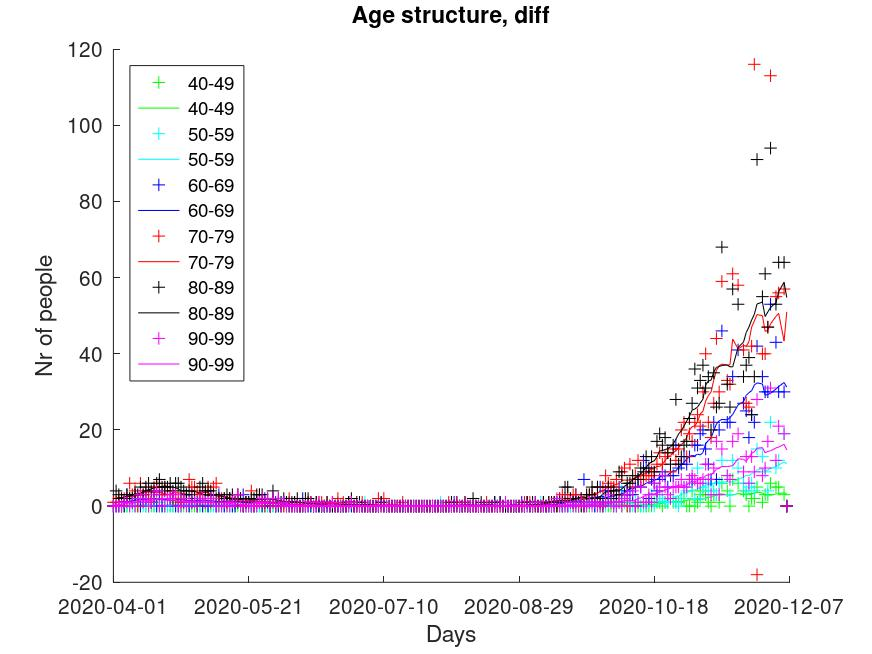
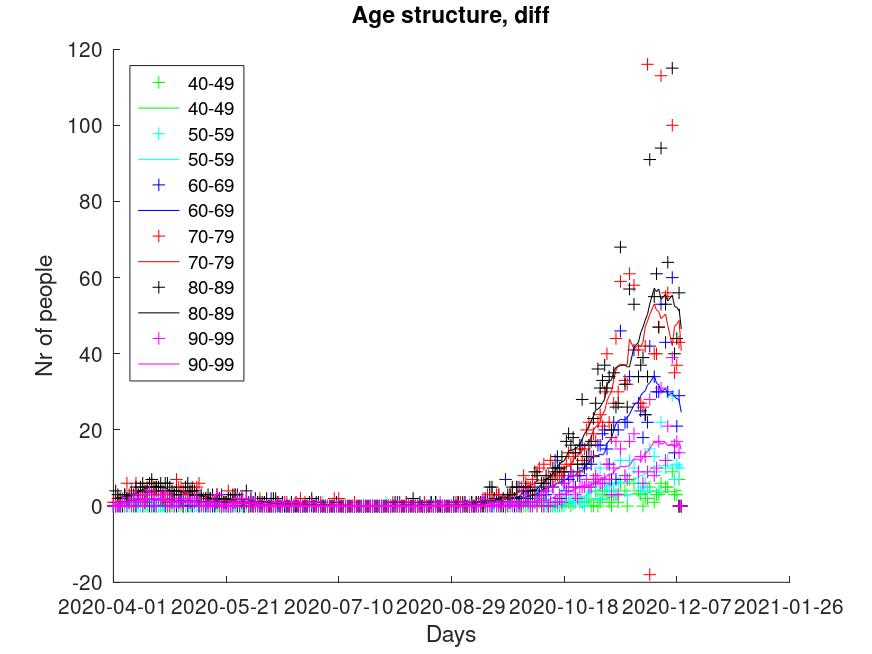
update 2020-12-09

diff --git a/index.html b/index.html
@@ -5,7 +5,7 @@ The aim of this project to help on you learing the Matlab script language quickl
 You can download octave (free) from : <a href=https://www.gnu.org/software/octave/download.html>https://www.gnu.org/software/octave/download.html</A>
 <BR>
 Input data come from this <a href=https://hu.wikipedia.org/wiki/2020-as_COVID%E2%80%9319-koronav%C3%ADrus-j%C3%A1rv%C3%A1ny_Magyarorsz%C3%A1gon>wikipedia link</a>,
-updated on 2020-11-30. <br>
+updated on 2020-12-09. <br>
 Day zero in curves is 2020-03-04 when the first 2 people tested positive to Covid19 in Budapest. <Br>
 <BR>
 Other curves:

diff --git a/README.md b/README.md
@@ -4,7 +4,7 @@ Matlab / Octave example project using Hungarian Covid19 raw datas
 The aim of this project to help on you learing the Matlab script language quickly.
 
 Input data come from this [wikipedia link](https://hu.wikipedia.org/wiki/2020-as_COVID%E2%80%9319-koronav%C3%ADrus-j%C3%A1rv%C3%A1ny_Magyarorsz%C3%A1gon),
-updated on 2020-12-04. <br>
+updated on 2020-12-09. <br>
 Day zero in curves is 2020-03-04 when the first 2 people tested positive to Covid19 in Budapest. <Br>
 Other curves:
 [Trajectory](https://aatishb.com/covidtrends/?location=Australia&location=Brazil&location=Canada&location=China&location=France&location=Germany&location=Hong+Kong&location=Hungary&location=India&location=Italy&location=Japan&location=Russia&location=Singapore&location=South+Korea&location=Spain&location=Taiwan&location=Turkey&location=US&location=United+Kingdom) |
